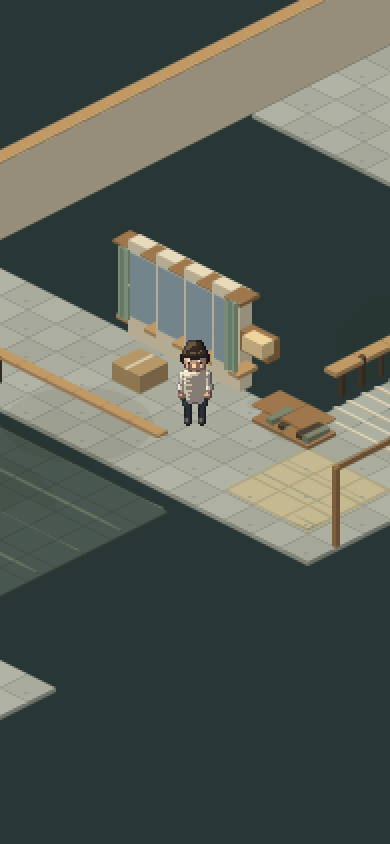
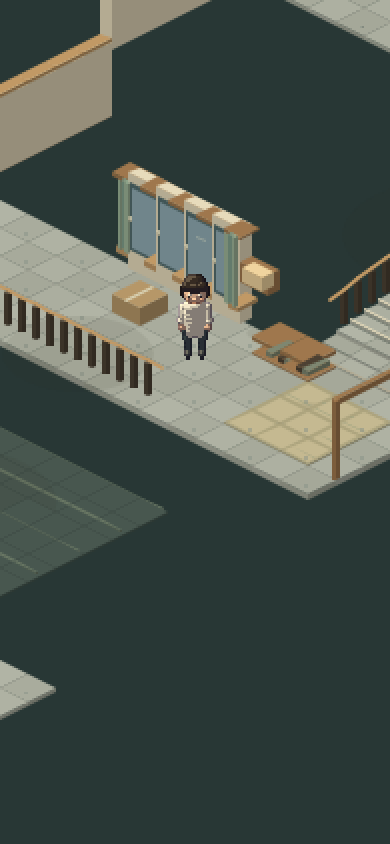
feat(residential): render agreed discrete stair surfaces at absolute height

diff --git a/src/world/art/residential/index.ts b/src/world/art/residential/index.ts
@@ -1,5 +1,6 @@
 import type { DrawMap, WorldRenderObject, WorldRenderView } from '../../render-contract';
 import type { SceneApi } from '../../../scene/renderer.js';
+import { stairSurfaces, supportHeight } from '../../maps/residential/elevation';
 import { mapDefinitions } from '../../maps/residential';
 import { furnitureWorldRect } from '../../../features/apartment/world';
 import type { WorldMapDefinition } from '../../schema';
@@ -25,7 +26,10 @@ function wall(api: ResidentialArtApi, x: number, y: number, width: number, depth
 export function drawResidentialFloor(api: ResidentialArtApi, mapId: string) {
   const map = mapDefinitions.find(m => m.id === mapId);
   if (!map) return;
-  for (const terrain of map.terrain) {
+  const terrainAreas = mapId === 'residential-stairs'
+    ? stairSurfaces.map(surface => ({ rect: surface.rect, material: surface.kind === 'tread' ? 'stairs' : 'terrazzo', baseZ: surface.height }))
+    : map.terrain.map(terrain => ({ ...terrain, baseZ: 0 }));
+  for (const terrain of terrainAreas) {
     const r = terrain.rect;
     for (let x = r.x; x < r.x + r.width; x++) for (let y = r.y; y < r.y + r.height; y++) {
       const right = Math.min(x + 1, r.x + r.width), front = Math.min(y + 1, r.y + r.height);
@@ -33,8 +37,8 @@ export function drawResidentialFloor(api: ResidentialArtApi, mapId: string) {
       const material = terrain.material;
       const base: Colour = material === 'timber' ? [187, 150, 103] : material === 'woven' ? [133, 137, 108] : material === 'glazed-tile' ? [145, 166, 153] : [171, 174, 159];
       const colour: Colour = base.map(c => c + variation * (material === 'timber' ? 1.2 : 2)) as Colour;
-      const z = material === 'woven' ? .045 : .01;
-      api.box(x, y, -.12, right, front, z, colour);
+      const baseZ = terrain.baseZ, z = baseZ + (mapId === 'residential-stairs' ? 0 : material === 'woven' ? .045 : .01);
+      api.box(x, y, baseZ - .16, right, front, z, colour);
       if (material === 'timber') {
         api.box(x, y, z, x + .016, front, z + .007, [151, 122, 87]);
         if ((y + x % 2) % 3 === 0) api.box(x, y, z, right, y + .016, z + .007, [159, 127, 86]);
@@ -46,12 +50,11 @@ export function drawResidentialFloor(api: ResidentialArtApi, mapId: string) {
         if ((x + y) % 3 === 0) api.box(x + .1, y + .1, z, x + .35, y + .14, z + .012, [177, 191, 176]);
       } else if (material === 'stairs') {
         for (let step = y; step < front; step += .5) {
-          api.box(x, step, .015, right, step + .08, .065, cream);
-          api.box(x, step + .08, .015, right, step + .13, .03, [125, 134, 124]);
+          api.box(x, front - .065, baseZ + .01, right, front, baseZ + .018, cream);
         }
       } else if (material === 'terrazzo' && (x + y) % 2 === 0) {
-        api.box(x + .2, y + .3, .012, x + .3, y + .4, .018, [204, 203, 183]);
-        api.box(x + .65, y + .68, .012, x + .73, y + .75, .018, [135, 146, 136]);
+        api.box(x + .2, y + .3, baseZ + .012, x + .3, y + .4, baseZ + .018, [204, 203, 183]);
+        api.box(x + .65, y + .68, baseZ + .012, x + .73, y + .75, baseZ + .018, [135, 146, 136]);
       } else if (material === 'woven') api.box(x, y + .12, z, right, y + .16, z + .006, [174, 169, 133]);
     }
   }
@@ -60,7 +63,7 @@ export function drawResidentialFloor(api: ResidentialArtApi, mapId: string) {
 export function drawResidentialProps(api: ResidentialArtApi, mapId: string, layer?: string) {
   const map = mapDefinitions.find(m => m.id === mapId);
   if (!map) return;
-  for (const prop of map.props) if (!layer || prop.layer === layer) drawResidentialProp(api, prop);
+  for (const prop of map.props) if (!layer || prop.layer === layer) drawResidentialProp(prop.kind === 'well' ? api : onSurface(api, mapId), prop);
 }
 
 function drawResidentialProp(api: ResidentialArtApi, prop: Omit<WorldMapDefinition['props'][number], 'layer'>) {
@@ -202,10 +205,15 @@ function drawResidentialProp(api: ResidentialArtApi, prop: Omit<WorldMapDefiniti
         }
       } else { box(x + w / 2, endY, .15, x + w / 2 + .05, endY + .03, 2.3, ink); sphere(x + w / 2 + .15, endY + .1, 1.2, .06, cream, 'solid'); }
       break;
-    case 'railing':
-      for (let at = y; at < endY; at += .7) post(x, at, 1.1);
-      box(x - .05, y, 1.1, endX + .05, endY, 1.22, paleWood);
+    case 'railing': {
+      const alongX = w > h, length = alongX ? w : h;
+      const at = (t: number): [number, number, number] => [x + (alongX ? t : w / 2), y + (alongX ? h / 2 : t), 1.15];
+      for (let t = 0; t < length; t += .5) {
+        const a = at(t), b = at(Math.min(t + .5, length));
+        post(a[0], a[1], 1.15);capsule(a, b, .065, .065, () => paleWood, 'solid');
+      }
       break;
+    }
     case 'pipe':
       capsule([x + w / 2, y, .2], [x + w / 2, endY, .2], .06, .06, () => [126, 140, 132], 'solid');
       for (let at = y; at < endY; at += 1.5) box(x, at, .1, endX, at + .08, .32, ink);
@@ -307,6 +315,16 @@ export function drawApartmentFurniture(api: ResidentialArtApi, state: State) {
 }
 
 
+function onSurface(api: ResidentialArtApi, mapId: string): ResidentialArtApi {
+  if (mapId !== 'residential-stairs') return api;
+  return {
+    box(x, y, z, right, front, top, colour) { const base = supportHeight(mapId, { x: (x + right) / 2, y: (y + front) / 2 });api.box(x, y, z + base, right, front, top + base, colour); },
+    sphere(x, y, z, radius, colour, mode) { api.sphere(x, y, z + supportHeight(mapId, { x, y }), radius, colour, mode); },
+    capsule(a, b, startRadius, endRadius, colour, mode) { api.capsule([a[0], a[1], a[2] + supportHeight(mapId, { x: a[0], y: a[1] })], [b[0], b[1], b[2] + supportHeight(mapId, { x: b[0], y: b[1] })], startRadius, endRadius, colour, mode); },
+    castShadow(x, y, z, radius, strength, dither) { api.castShadow(x, y, z + supportHeight(mapId, { x, y }), radius, strength, dither); },
+  };
+}
+
 type Paint = { depth: number; draw: () => void };
 function paintResidential(ctx: CanvasRenderingContext2D, view: WorldRenderView, draw: (api: ResidentialArtApi) => void) {
   const paints: Paint[] = [];
@@ -345,8 +363,8 @@ function paintResidential(ctx: CanvasRenderingContext2D, view: WorldRenderView, 
         ctx.beginPath();ctx.moveTo(Math.round(a.x), Math.round(a.y));ctx.lineTo(Math.round(b.x), Math.round(b.y));ctx.stroke();
       } });
     },
-    castShadow(x, y, _z, size, strength = .45) {
-      const p = view.project({ x, y }), r = radius(x, y, size);
+    castShadow(x, y, z, size, strength = .45) {
+      const p = view.project({ x, y }, z), r = radius(x, y, size);
       paints.push({ depth: (x + y) * 2 - 3, draw() { ctx.save();ctx.globalAlpha *= strength * .18;ctx.fillStyle = view.shadeColor?.('#342c24') ?? '#342c24';ctx.beginPath();ctx.ellipse(p.x, p.y, r, r * .5, 0, 0, Math.PI * 2);ctx.fill();ctx.restore(); } });
     },
   };
@@ -373,7 +391,7 @@ export function renderObjects(map: Parameters<DrawMap>[1], _view: WorldRenderVie
           id: parts.length ? `${prop.id}.segment-${parts.length}` : prop.id,
           position: { x: x + width / 2, y: y + height / 2 },
           occlusion: { rect: { x, y, width, height }, height: 2.8, fadeWhenPlayerBehind: true },
-          draw(ctx, view) { paintResidential(ctx, view, api => wall(api, x, y, width, height)); },
+          draw(ctx, view) { paintResidential(ctx, view, api => wall(onSurface(api, map.id), x, y, width, height)); },
         });
       }
       return parts;
@@ -384,7 +402,7 @@ export function renderObjects(map: Parameters<DrawMap>[1], _view: WorldRenderVie
     return [{
       id: prop.id, position,
       occlusion: occluder ?? (tall ? { rect: { ...prop.position, width: prop.width, height: prop.height }, height: 2.7, fadeWhenPlayerBehind: true } : undefined),
-      draw(ctx, view) { paintResidential(ctx, view, api => drawResidentialProp(api, prop)); },
+      draw(ctx, view) { paintResidential(ctx, view, api => drawResidentialProp(onSurface(api, map.id), prop)); },
     }];
   });
 }
@@ -405,4 +423,4 @@ export function renderFurnitureObjects(state: State): WorldRenderObject[] {
   });
 }
 
-export { surfaceHeight } from '../../maps/residential/elevation';
+export { surfaceHeight, surfaceLevels } from '../../maps/residential/elevation';

diff --git a/src/world/maps/residential/elevation.test.ts b/src/world/maps/residential/elevation.test.ts
@@ -1,17 +1,18 @@
 import { describe, expect, it } from 'vitest';
-import { surfaceHeight } from './elevation';
+import { stairSurfaces, surfaceHeight, surfaceLevels, supportHeight } from './elevation';
 
 describe('residential stair surface', () => {
-  it('joins two flights and three landings without a height jump', () => {
-    for (const [y, height] of [[40, 0], [33, 0], [24, 2.4], [21, 2.4], [19, 2.4], [9, 4.8], [3, 4.8]]) expect(surfaceHeight('residential-stairs', { x: 6, y })).toBeCloseTo(height);
-    for (const y of [33, 24, 19, 9]) expect(Math.abs(surfaceHeight('residential-stairs', { x: 6, y: y - .0001 }) - surfaceHeight('residential-stairs', { x: 6, y: y + .0001 }))).toBeLessThan(.001);
-  });
-  it('rises monotonically towards the roof and leaves the other maps at their own ground level', () => {
-    let previous = 0;
-    for (let y = 40; y >= 3; y -= .1) {
-      const height = surfaceHeight('residential-stairs', { x: 6, y });
-      expect(height).toBeGreaterThanOrEqual(previous);expect(height).toBeLessThanOrEqual(4.8);previous = height;
+  it('samples the same constant height across every authored tread and landing', () => {
+    for (const surface of stairSurfaces) {
+      for (const [u, v] of [[.1, .1], [.5, .5], [.9, .9]]) expect(surfaceHeight('residential-stairs', { x: surface.rect.x + surface.rect.width * u, y: surface.rect.y + surface.rect.height * v })).toBe(surface.height);
     }
-    for (const map of ['apartment', 'residential-hall', 'rooftop', 'town']) expect(surfaceHeight(map, { x: 6, y: 4 })).toBe(0);
+    expect(surfaceLevels('residential-stairs')).toEqual([...new Set(stairSurfaces.map(s => s.height))].sort((a, b) => a - b));
+  });
+  it('keeps door landings level and each rise small while leaving other maps flat', () => {
+    for (const [x, y, height] of [[11.5, 37, 0], [17, 21.5, 2.4], [6, 5.5, 4.8]]) expect(surfaceHeight('residential-stairs', { x, y })).toBe(height);
+    const levels = surfaceLevels('residential-stairs');
+    for (let i = 1; i < levels.length; i++) expect(levels[i] - levels[i - 1]).toBeLessThanOrEqual(.134);
+    for (const map of ['apartment', 'residential-hall', 'rooftop', 'town']) { expect(surfaceHeight(map, { x: 6, y: 4 })).toBe(0);expect(surfaceLevels(map)).toEqual([0]); }
+    expect(supportHeight('residential-stairs', { x: 2.8, y: 21 })).toBe(2.4);
   });
 });

diff --git a/src/world/art/residential/art.test.ts b/src/world/art/residential/art.test.ts
@@ -1,13 +1,29 @@
 import { describe, expect, it } from 'vitest';
 import { mapDefinitions } from '../../maps/residential';
+import { stairSurfaces } from '../../maps/residential/elevation';
+import { restaurantMap } from '../../restaurant';
 import { worldMapSchema } from '../../schema';
-import { renderFurnitureObjects, renderObjects } from './index';
+import { drawMap, drawResidentialFloor, type ResidentialArtApi, renderFurnitureObjects, renderObjects } from './index';
 import { initialState, reduce } from '../../../features/apartment/rules';
 import { furnitureColliders } from '../../../features/apartment/world';
 import type { WorldRenderView } from '../../render-contract';
 const view: WorldRenderView = { project: p => p, elapsedMs: 0, reducedMotion: true, playerPosition: { x: 15, y: 14 }, width: 390, height: 844, pass: 'objects' };
 
 describe('residential object composition', () => {
+  it('paints every tread and landing at the same absolute height used for feet', () => {
+    const boxes: { x: number; y: number; right: number; front: number; top: number }[] = [];
+    const api: ResidentialArtApi = { box(x, y, _z, right, front, top) { boxes.push({ x, y, right, front, top }); }, sphere() {}, capsule() {}, castShadow() {} };
+    drawResidentialFloor(api, 'residential-stairs');
+    for (const surface of stairSurfaces) {
+      const x = surface.rect.x + surface.rect.width / 2, y = surface.rect.y + surface.rect.height / 2;
+      expect(boxes.some(b => x >= b.x && x <= b.right && y >= b.y && y <= b.front && Math.abs(b.top - surface.height) < .00001), surface.id).toBe(true);
+    }
+  });
+  it('never paints or registers props for an unowned map', () => {
+    const context = new Proxy({} as CanvasRenderingContext2D, { get() { throw new Error('Residential art painted an unowned map'); } });
+    for (const pass of ['ground', 'objects', 'foreground'] as const) drawMap(context, restaurantMap, { ...view, pass });
+    expect(renderObjects(restaurantMap, view)).toEqual([]);
+  });
   it('overrides every static object fallback and keeps unique depth IDs', () => {
     for (const definition of mapDefinitions) {
       const map = worldMapSchema.parse(definition), objects = renderObjects(map, view), ids = objects.map(o => o.id);

diff --git a/src/world/maps/residential/elevation.ts b/src/world/maps/residential/elevation.ts
@@ -1,10 +1,28 @@
-import type { Point } from '../../schema';
+import type { Point, Rect } from '../../schema';
 
+type Surface = { id: string; kind: 'landing' | 'tread'; rect: Rect; height: number };
+export const stairSurfaces: readonly Surface[] = [
+  { id: 'hall-landing', kind: 'landing', rect: { x: 3, y: 33, width: 17, height: 7 }, height: 0 },
+  ...Array.from({ length: 18 }, (_, index): Surface => ({ id: `lower-tread-${index}`, kind: 'tread', rect: { x: 3, y: 32.5 - index * .5, width: 5, height: .5 }, height: (index + 1) / 18 * 2.4 })),
+  { id: 'home-landing', kind: 'landing', rect: { x: 3, y: 19, width: 17, height: 5 }, height: 2.4 },
+  ...Array.from({ length: 20 }, (_, index): Surface => ({ id: `upper-tread-${index}`, kind: 'tread', rect: { x: 15, y: 18.5 - index * .5, width: 5, height: .5 }, height: 2.4 + (index + 1) / 20 * 2.4 })),
+  { id: 'roof-landing', kind: 'landing', rect: { x: 3, y: 3, width: 17, height: 6 }, height: 4.8 },
+];
+const levels = [...new Set([0, ...stairSurfaces.map(surface => surface.height)])].sort((a, b) => a - b);
+const flat = [0] as const;
+export function surfaceLevels(mapId: string): readonly number[] { return mapId === 'residential-stairs' ? levels : flat; }
 export function surfaceHeight(mapId: string, point: Point): number {
   if (mapId !== 'residential-stairs') return 0;
-  if (point.y >= 33) return 0;
-  if (point.y >= 24) return (33 - point.y) / 9 * 2.4;
-  if (point.y >= 19) return 2.4;
-  if (point.y >= 9) return 2.4 + (19 - point.y) / 10 * 2.4;
-  return 4.8;
+  return stairSurfaces.find(({ rect }) => point.x >= rect.x && point.x < rect.x + rect.width && point.y >= rect.y && point.y < rect.y + rect.height)?.height ?? 0;
+}
+
+export function supportHeight(mapId: string, point: Point): number {
+  if (mapId !== 'residential-stairs') return 0;
+  let height = 0, distance = Infinity;
+  for (const surface of stairSurfaces) {
+    const r = surface.rect, dx = Math.max(r.x - point.x, 0, point.x - r.x - r.width), dy = Math.max(r.y - point.y, 0, point.y - r.y - r.height);
+    const next = Math.hypot(dx, dy);
+    if (next < distance) { distance = next;height = surface.height; }
+  }
+  return height;
 }

diff --git a/src/world/art/residential/harness.ts b/src/world/art/residential/harness.ts
@@ -1,4 +1,4 @@
-import { drawFurniture, drawMap, renderObjects, renderFurnitureObjects } from './index';
+import { drawFurniture, drawMap, renderObjects, renderFurnitureObjects, surfaceHeight } from './index';
 import { mapDefinitions } from '../../maps/residential';
 import { worldMapSchema } from '../../schema';
 import { project } from '../../camera';
@@ -29,7 +29,7 @@ const actorRenderer = createRenderer(actor, {
   draw(api) { characterFigure(0, 0, Math.PI / 4, { scale: .9 }, { shirt: [245, 232, 202], hair: [54, 43, 34], legs: [63, 78, 74] }, api.dynamicAdd);api.shadeEdges(); },
 });
 actorRenderer.draw();
-const at = view.project(player), ratio = camera.scale / (18 / Math.SQRT2);
+const at = view.project(player, surfaceHeight(map.id, player)), ratio = camera.scale / (18 / Math.SQRT2);
 const objects: WorldRenderObject[] = [...renderObjects(map, view), ...(map.id === 'apartment' ? renderFurnitureObjects(home) : []), {
   id: 'player', position: player, draw() { ctx.drawImage(actor, 130, 80, 100, 80, at.x - 50 * ratio, at.y - 70 * ratio, 100 * ratio, 80 * ratio); },
 }];

diff --git a/src/world/maps/residential/index.ts b/src/world/maps/residential/index.ts
@@ -3,3 +3,5 @@ import stairs from './residential-stairs.json';
 import apartment from './apartment.json';
 
 export const mapDefinitions = [hall, stairs, apartment];
+
+export { surfaceHeight, surfaceLevels } from './elevation';

diff --git a/docs/evidence/0081/integration.md b/docs/evidence/0081/integration.md
@@ -20,10 +20,12 @@ Current tests use the foundation schema, collision function and pathfinder for a
 
 The owned `Apartment` component now accepts `sceneMode="world"`. Forward it from the shared Neighbourhood view during world activities. This removes the old fixed miniature and opens its accessible 6 by 5 floor selector. Default standalone behavior stays `room`. World taps can additionally dispatch the existing actions through the transform above.
 
-## Stair surface proposal awaiting coordinated activation
+## Discrete stair surface v1.1
 
-The pure `surfaceHeight(mapId, point)` export is implemented in `src/world/maps/residential/elevation.ts` and re-exported from art/index.ts. It returns absolute render elevation in tile units. Hall, apartment and other maps return zero. Residential stairs rise from zero at the hall landing to 2.4 at the apartment landing, then 4.8 at the roof landing. Flights run north through y=33..24 and y=19..9, with continuous joins.
+`src/world/maps/residential/elevation.ts` owns the single `stairSurfaces` table. The map index and art index export `surfaceHeight(mapId, point)` and `surfaceLevels(mapId)`. Eighteen lower treads rise to the home landing at Z=2.4. Twenty upper treads rise to the roof landing at Z=4.8. The hall landing remains at Z=0. Treads are half a tile deep and use small constant rises. The full table is piecewise constant; the previous continuous-ramp prototype is replaced.
 
-This function does not yet alter production drawing. Coordinator/foundation must settle the single surface API first. Foundation should use one elevation value for actor/NPC foot contact, camera focus height and ground picking. Art should add the same absolute surface elevation to floors and props. Foundation must not add the height again to already-elevated art primitives. Collision and feature/save coordinates remain two-dimensional. A portal changes maps to the destination's local ground level; no separate height field is persisted.
+Tread and landing art iterates this same table. Each floor top is at exactly the table height. `supportHeight` derives nearby architectural support heights from the table for wall sections, windows, props, rail endpoints and contact shadows. Rail segments and wall sections remain separate depth entries. Flat-map art is unchanged. No height is stored in furniture or world saves.
 
-After agreement, residential art will raise its treads, window landings, railing endpoints and wall sections. Foundation supplies player/NPC elevation and inverse picking. Until then the route is walkable but its flat visual plane is an explicit incomplete scope item.
+Art passes absolute world Z into `view.project`; it never wraps project to add another height. Foundation registers the map module's two callbacks, projects actor and NPC feet at sampled height, frames camera focusZ, and implements the agreed unprojectAtHeight/level enumeration for picking. Those shared changes belong to foundation. Do not add surfaceHeight again to the already-raised art geometry.
+
+The standalone art study now samples the same height for its reference figure and shows raised landings. It remains an art study, not production camera/picking proof. Integrated ordinary-input ascent/descent, NPC feet, touch picking and apartment/roof continuity must be rerun after foundation consumes the exact source.

diff --git a/docs/evidence/0081/ledger.md b/docs/evidence/0081/ledger.md
@@ -70,3 +70,9 @@ This is a production-function safety reproduction, not an ordinary-UI editing re
 The adapted foundation journey passed at this checkout in 5.4 minutes. It played the ordinary opening, served three real restaurant tables with change, looked up a word, then walked restaurant to town, courtyard, residential hall, stairs, apartment, roof, workshop, park and riverbank, and returned to the restaurant. It used real pointer and keyboard input, state reads only, no save injection and no internal dispatch. Reload preserved the exact position, served=3 and 17 journal entries. Page errors were empty. `regression/desktop-journey-proof.json`, `desktop-results.json`, arrival screenshots and compact `desktop-journey.mp4` retain the evidence. The full trace remains on disk in ignored temporary artifacts. No independent visual acceptance is implied.
 
 The integrated Vitest suite passed 388 tests in 43 files once on this source, logged in regression/unit-suite.log. Focused residential checks remain 24. The first phone journey probe used the wrong camera size and failed; it is preserved as phone-coordinate-probe-failure.json/md. Production renders a half-size canvas, so its actual canvas dimensions must feed projection and pointer scaling. The corrected phone touch journey is running. Do not report that initial harness failure as a product defect.
+
+## Agreed stair art handoff
+
+After coordinator's minimal surface seam was agreed, replaced the continuous-ramp proposal with one piecewise-constant tread/landing table. surfaceLevels and surfaceHeight now derive from it. Floor top geometry uses the same exact heights. Raised windows, props, wall sections, rail endpoints and contact shadows add support height once. view.project remains absolute. Both callback exports are available from the leased map module and art module. Inspected fresh desktop/phone raised-landings art studies; no page errors. Foundation's actor/camera/picking consumption and new production ascent/descent remain required. Earlier successful ordinary journeys used the prior flat rendering.
+
+The corrected phone ordinary-input journey passed in 6.2 minutes before the stair art mutation. It completed all areas, including apartment and roof, and retained reload continuity. Phone arrival screenshots were inspected. The first coordinate-probe failure remains separate, with its cause corrected in the proof helper.
